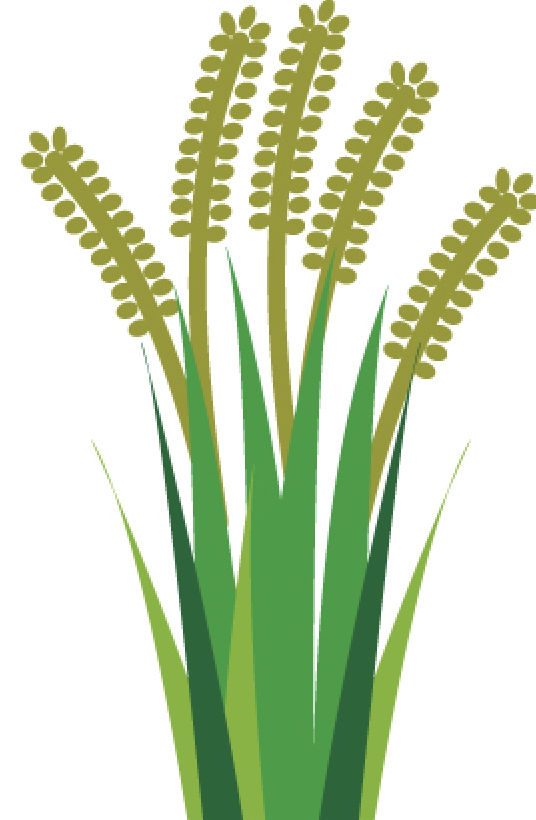
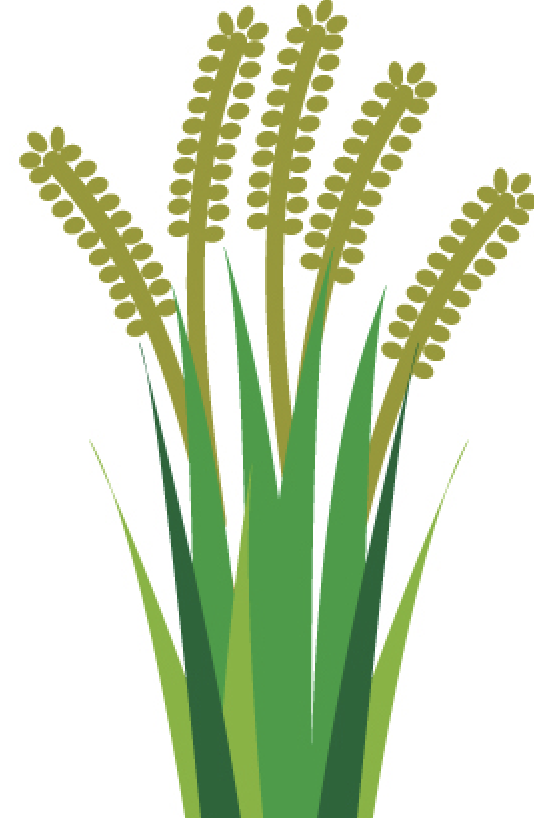
アイコンの置き換えと位置の微修正

diff --git a/src/screens/DiagnosticScreen.js b/src/screens/DiagnosticScreen.js
@@ -325,7 +325,7 @@ const styles = StyleSheet.create({
   riceImages:{
     display: 'flex',
     flexDirection: 'row',
-    paddingBottom: 60,
+    paddingBottom: 35,
     justifyContent: 'center',
   },
   rice0:{
@@ -354,8 +354,8 @@ const styles = StyleSheet.create({
     height: 110,
   },
   rice5:{
-    width: 60,
-    height: 140,
+    width: 80,
+    height: 150,
   },
 
 
